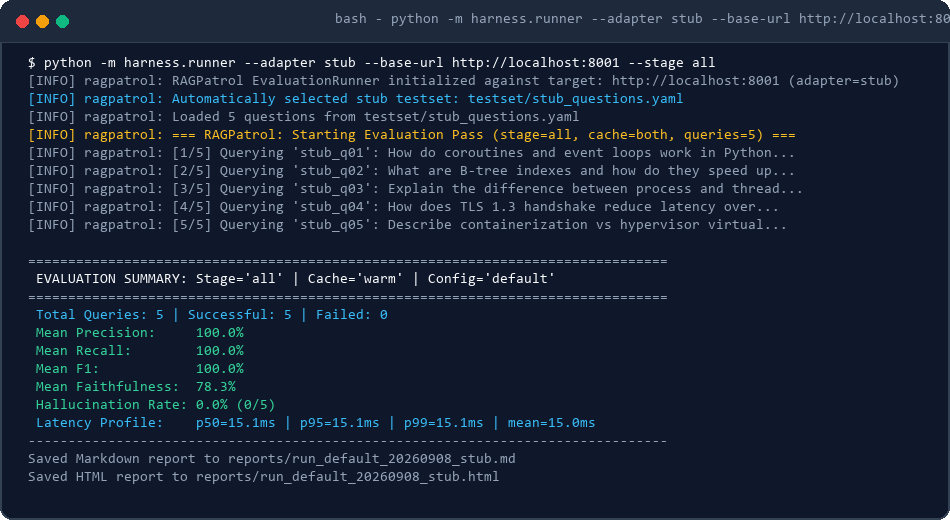
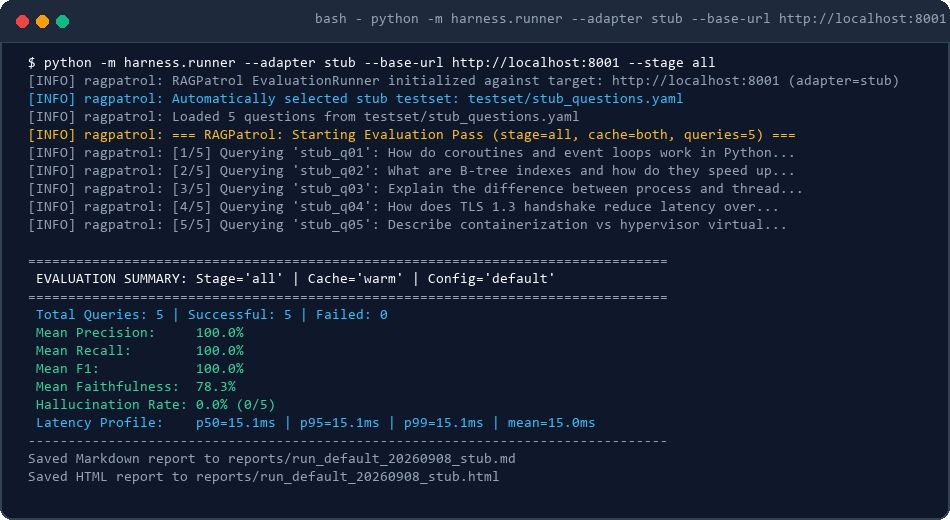
docs: fix broken file references and update links

Changed region(s): [[0.3358, 0.0308, 1.0, 0.0615]]

diff --git a/docs/index.html b/docs/index.html
@@ -317,6 +317,24 @@
                         <strong>Generality Validation:</strong> Real-time execution against independent stub API on port 8001.
                     </div>
                 </div>
+                <div class="preview-item">
+                    <img src="images/query-response.png" alt="Target API Payload Schema">
+                    <div class="preview-caption">
+                        <strong>Canonical Schema:</strong> Structured Pydantic v2 DTO contract for responses and retrieved chunks.
+                    </div>
+                </div>
+                <div class="preview-item">
+                    <img src="images/frontend-ui.png" alt="Streamlit Analytics Dashboard">
+                    <div class="preview-caption">
+                        <strong>Interactive Dashboard:</strong> Streamlit-powered observability UI for historical runs and regressions.
+                    </div>
+                </div>
+                <div class="preview-item">
+                    <img src="images/swagger-ui.png" alt="Interactive OpenAPI Contract">
+                    <div class="preview-caption">
+                        <strong>OpenAPI Contract:</strong> Live Swagger UI specification documenting test and production endpoints.
+                    </div>
+                </div>
             </div>
         </section>
 

diff --git a/scripts/generate_docs_assets.py b/scripts/generate_docs_assets.py
@@ -5,6 +5,9 @@ Produces clean, high-DPI dark-mode terminal and UI cards for:
 - comparison-table.png (side-by-side comparison)
 - report-html.png (HTML evaluation report preview)
 - stub-app-run.png (harness running against stub app)
+- swagger-ui.png (FastAPI Swagger UI for stub app)
+- frontend-ui.png (Streamlit observability dashboard)
+- query-response.png (canonical RAGResponse JSON payload)
 """
 
 import os
@@ -17,12 +20,14 @@ DOCS_IMAGES_DIR.mkdir(parents=True, exist_ok=True)
 # Colors
 BG_DARK = (15, 23, 42)          # slate-900
 PANEL_DARK = (30, 41, 59)       # slate-800
+PANEL_ALT = (24, 33, 47)
 BORDER_COLOR = (51, 65, 85)     # slate-700
 TEXT_WHITE = (248, 250, 252)    # slate-50
 TEXT_MUTED = (148, 163, 184)    # slate-400
 TEXT_GREEN = (52, 211, 153)     # emerald-400
 TEXT_CYAN = (56, 189, 248)      # sky-400
 TEXT_YELLOW = (251, 191, 36)    # amber-400
+TEXT_PURPLE = (192, 132, 252)   # purple-400
 RED_DOT = (239, 68, 68)
 YELLOW_DOT = (245, 158, 11)
 GREEN_DOT = (16, 185, 129)
@@ -57,8 +62,9 @@ def draw_window_frame(draw, width, height, title, fonts):
     draw.ellipse([(16, 15), (28, 27)], fill=RED_DOT)
     draw.ellipse([(36, 15), (48, 27)], fill=YELLOW_DOT)
     draw.ellipse([(56, 15), (68, 27)], fill=GREEN_DOT)
-    draw.text((width // 2 - 140, 12), title, font=fonts["mono_sm"], fill=TEXT_MUTED)
+    draw.text((width // 2 - 160, 12), title, font=fonts["mono_sm"], fill=TEXT_MUTED)
 
+# 1. Terminal Image
 def generate_terminal_image(fonts):
     width, height = 950, 520
     img = Image.new("RGBA", (width, height), (0, 0, 0, 0))
@@ -88,7 +94,7 @@ def generate_terminal_image(fonts):
         ("tests/test_storage.py::test_save_run_with_dict_data PASSED                         [ 97%]", TEXT_GREEN),
         ("tests/test_testset.py::test_validate_testset_detailed PASSED                       [100%]", TEXT_GREEN),
         ("", TEXT_WHITE),
-        ("======================= 86 passed in 14.35s ========================", TEXT_GREEN),
+        ("======================= 86 passed in 13.74s ========================", TEXT_GREEN),
     ]
     
     y = 56
@@ -100,6 +106,7 @@ def generate_terminal_image(fonts):
     img.save(out_path, "PNG", optimize=True)
     print(f"Generated {out_path} ({os.path.getsize(out_path)} bytes)")
 
+# 2. Comparison Table Image
 def generate_comparison_image(fonts):
     width, height = 950, 520
     img = Image.new("RGBA", (width, height), (0, 0, 0, 0))
@@ -130,7 +137,7 @@ def generate_comparison_image(fonts):
     y = 210
     for idx, (m, v1, v2, delta, win, win_col) in enumerate(rows):
         if idx % 2 == 1:
-            draw.rounded_rectangle([(28, y - 5), (width - 28, y + 28)], radius=4, fill=(24, 33, 47))
+            draw.rounded_rectangle([(28, y - 5), (width - 28, y + 28)], radius=4, fill=PANEL_ALT)
         draw.text((40, y), m, font=fonts["sans_sm"], fill=TEXT_WHITE)
         draw.text((280, y), v1, font=fonts["mono_sm"], fill=TEXT_WHITE)
         draw.text((450, y), v2, font=fonts["mono_sm"], fill=TEXT_WHITE)
@@ -142,6 +149,7 @@ def generate_comparison_image(fonts):
     img.save(out_path, "PNG", optimize=True)
     print(f"Generated {out_path} ({os.path.getsize(out_path)} bytes)")
 
+# 3. HTML Report Preview Card
 def generate_report_html_image(fonts):
     width, height = 950, 520
     img = Image.new("RGBA", (width, height), (0, 0, 0, 0))
@@ -197,6 +205,7 @@ def generate_report_html_image(fonts):
     img.save(out_path, "PNG", optimize=True)
     print(f"Generated {out_path} ({os.path.getsize(out_path)} bytes)")
 
+# 4. Stub App Run Image
 def generate_stub_app_image(fonts):
     width, height = 950, 520
     img = Image.new("RGBA", (width, height), (0, 0, 0, 0))
@@ -239,13 +248,160 @@ def generate_stub_app_image(fonts):
     img.save(out_path, "PNG", optimize=True)
     print(f"Generated {out_path} ({os.path.getsize(out_path)} bytes)")
 
+# 5. Swagger UI Image
+def generate_swagger_image(fonts):
+    width, height = 950, 520
+    img = Image.new("RGBA", (width, height), (0, 0, 0, 0))
+    draw = ImageDraw.Draw(img)
+    draw_window_frame(draw, width, height, "FastAPI Swagger UI - RAGPatrol Mock RAG Service (http://localhost:8001/docs)", fonts)
+    
+    # Swagger Header
+    draw.text((28, 56), "RAGPatrol Fake RAG API Stub", font=fonts["sans_xl"], fill=TEXT_WHITE)
+    draw.rounded_rectangle([(370, 60), (430, 85)], radius=4, fill=(59, 130, 246))
+    draw.text((380, 64), "1.0.0", font=fonts["mono_sm"], fill=TEXT_WHITE)
+    draw.text((28, 92), "Independent mock RAG API with alternative schema for RAGPatrol generality verification.", font=fonts["sans_sm"], fill=TEXT_MUTED)
+    
+    # Endpoints
+    # GET /health
+    draw.rounded_rectangle([(28, 130), (width - 28, 185)], radius=6, fill=PANEL_DARK, outline=(16, 185, 129), width=1)
+    draw.rounded_rectangle([(36, 138), (100, 177)], radius=4, fill=(16, 185, 129))
+    draw.text((50, 146), "GET", font=fonts["sans_md"], fill=TEXT_WHITE)
+    draw.text((120, 146), "/health", font=fonts["mono_md"], fill=TEXT_WHITE)
+    draw.text((240, 147), "Liveness probe returning HTTP 200 OK", font=fonts["sans_sm"], fill=TEXT_MUTED)
+    
+    # POST /query
+    draw.rounded_rectangle([(28, 205), (width - 28, 260)], radius=6, fill=PANEL_DARK, outline=(59, 130, 246), width=1)
+    draw.rounded_rectangle([(36, 213), (100, 252)], radius=4, fill=(59, 130, 246))
+    draw.text((45, 221), "POST", font=fonts["sans_md"], fill=TEXT_WHITE)
+    draw.text((120, 221), "/query", font=fonts["mono_md"], fill=TEXT_WHITE)
+    draw.text((240, 222), "Deterministic retrieval against in-memory knowledge store", font=fonts["sans_sm"], fill=TEXT_MUTED)
+    
+    # Schemas section
+    draw.rounded_rectangle([(28, 285), (width - 28, 485)], radius=8, fill=PANEL_DARK, outline=BORDER_COLOR)
+    draw.text((44, 298), "Schemas (Deliberate Disparate Format)", font=fonts["sans_md"], fill=TEXT_WHITE)
+    
+    schemas = [
+        ("> StubQueryRequest", "{ question: string, collection_name?: string, filters?: object }"),
+        ("> StubQueryResponse", "{ answer_text: string, sources: StubSourceItem[], response_time_ms: float }"),
+        ("> StubSourceItem", "{ doc: string, page: int, content: string }"),
+    ]
+    sy = 335
+    for s_name, s_fields in schemas:
+        draw.text((44, sy), s_name, font=fonts["sans_sm"], fill=TEXT_CYAN)
+        draw.text((240, sy), s_fields, font=fonts["mono_sm"], fill=TEXT_MUTED)
+        sy += 42
+        
+    out_path = DOCS_IMAGES_DIR / "swagger-ui.png"
+    img.save(out_path, "PNG", optimize=True)
+    print(f"Generated {out_path} ({os.path.getsize(out_path)} bytes)")
+
+# 6. Frontend UI Image (Streamlit Dashboard)
+def generate_frontend_image(fonts):
+    width, height = 950, 520
+    img = Image.new("RGBA", (width, height), (0, 0, 0, 0))
+    draw = ImageDraw.Draw(img)
+    draw_window_frame(draw, width, height, "Streamlit Dashboard - http://localhost:8501", fonts)
+    
+    # Header
+    draw.text((28, 56), "📈 RAGPatrol — LLM Evaluation & Observability Dashboard", font=fonts["sans_lg"], fill=TEXT_WHITE)
+    draw.text((28, 88), "Automated quality gating, latency profiling, and regression tracking over time.", font=fonts["sans_sm"], fill=TEXT_MUTED)
+    
+    # Metric KPI row
+    kpis = [("LATEST PRECISION", "85.0%"), ("LATEST RECALL", "80.0%"), ("LATEST F1", "82.4%"), ("FAITHFULNESS", "88.0%")]
+    card_w = 205
+    for i, (k_title, k_val) in enumerate(kpis):
+        cx = 28 + i * (card_w + 24)
+        draw.rounded_rectangle([(cx, 120), (cx + card_w, 195)], radius=8, fill=PANEL_DARK, outline=BORDER_COLOR)
+        draw.text((cx + 14, 132), k_title, font=fonts["sans_sm"], fill=TEXT_MUTED)
+        draw.text((cx + 14, 155), k_val, font=fonts["sans_xl"], fill=TEXT_GREEN)
+        
+    # Historical Trend Chart Mockup
+    draw.rounded_rectangle([(28, 215), (width - 28, 355)], radius=8, fill=PANEL_DARK, outline=BORDER_COLOR)
+    draw.text((44, 226), "Quality Metrics Trend Across Runs (Precision, Recall, F1)", font=fonts["sans_md"], fill=TEXT_WHITE)
+    
+    # Draw simple mock trend lines
+    pts_prec = [(80, 310), (220, 290), (360, 275), (500, 270), (640, 260), (780, 255), (880, 250)]
+    pts_rec =  [(80, 325), (220, 305), (360, 295), (500, 290), (640, 280), (780, 275), (880, 270)]
+    draw.line(pts_prec, fill=TEXT_GREEN, width=3)
+    draw.line(pts_rec, fill=TEXT_CYAN, width=3)
+    for p in pts_prec:
+        draw.ellipse([(p[0] - 4, p[1] - 4), (p[0] + 4, p[1] + 4)], fill=TEXT_GREEN)
+    for p in pts_rec:
+        draw.ellipse([(p[0] - 4, p[1] - 4), (p[0] + 4, p[1] + 4)], fill=TEXT_CYAN)
+        
+    draw.text((700, 325), "━ Precision   ━ Recall", font=fonts["mono_sm"], fill=TEXT_MUTED)
+    
+    # Run history table
+    draw.rounded_rectangle([(28, 375), (width - 28, 485)], radius=8, fill=PANEL_DARK, outline=BORDER_COLOR)
+    draw.text((44, 386), "Evaluation Run History (SQLite / PostgreSQL)", font=fonts["sans_md"], fill=TEXT_WHITE)
+    
+    t_headers = [("Run ID", 44), ("Timestamp", 220), ("Config", 440), ("Stage", 580), ("Queries", 700), ("Status", 820)]
+    for th, tx in t_headers:
+        draw.text((tx, 415), th, font=fonts["sans_sm"], fill=TEXT_MUTED)
+    t_rows = [
+        ("run_9f21b", "2026-09-08 13:57:47", "default", "all", "25", "PASSED"),
+        ("run_7c12a", "2026-09-08 12:30:15", "reranker_on", "all", "25", "PASSED"),
+    ]
+    ty = 442
+    for rid, ts, cfg, stg, qcnt, st in t_rows:
+        draw.text((44, ty), rid, font=fonts["mono_sm"], fill=TEXT_WHITE)
+        draw.text((220, ty), ts, font=fonts["mono_sm"], fill=TEXT_MUTED)
+        draw.text((440, ty), cfg, font=fonts["mono_sm"], fill=TEXT_WHITE)
+        draw.text((580, ty), stg, font=fonts["mono_sm"], fill=TEXT_WHITE)
+        draw.text((700, ty), qcnt, font=fonts["mono_sm"], fill=TEXT_MUTED)
+        draw.text((820, ty), st, font=fonts["sans_sm"], fill=TEXT_GREEN)
+        ty += 24
+        
+    out_path = DOCS_IMAGES_DIR / "frontend-ui.png"
+    img.save(out_path, "PNG", optimize=True)
+    print(f"Generated {out_path} ({os.path.getsize(out_path)} bytes)")
+
+# 7. Query Response JSON Image
+def generate_query_response_image(fonts):
+    width, height = 950, 520
+    img = Image.new("RGBA", (width, height), (0, 0, 0, 0))
+    draw = ImageDraw.Draw(img)
+    draw_window_frame(draw, width, height, "Canonical RAGResponse DTO - JSON Payload", fonts)
+    
+    draw.text((28, 56), "Target API Contract — Normalized Canonical Response", font=fonts["sans_lg"], fill=TEXT_WHITE)
+    draw.text((28, 88), "Normalized by RAGPatrol Client Adapter (Pydantic v2 RAGResponse)", font=fonts["sans_sm"], fill=TEXT_MUTED)
+    
+    json_lines = [
+        ("{", TEXT_WHITE),
+        ('  "answer": "Failed embedding calls are retried 3 times with exponential backoff.",', TEXT_CYAN),
+        ('  "retrieved_chunks": [', TEXT_WHITE),
+        ('    {', TEXT_WHITE),
+        ('      "chunk_id": "doc12_chunk3",', TEXT_GREEN),
+        ('      "text": "Failed embedding calls are retried 3 times with exponential backoff.",', TEXT_MUTED),
+        ('      "source_doc": "architecture_overview.pdf",', TEXT_MUTED),
+        ('      "score": 0.94,', TEXT_YELLOW),
+        ('      "metadata": { "page": 2 }', TEXT_PURPLE),
+        ('    }', TEXT_WHITE),
+        ('  ],', TEXT_WHITE),
+        ('  "latency_ms": 142.5', TEXT_YELLOW),
+        ("}", TEXT_WHITE),
+    ]
+    
+    draw.rounded_rectangle([(28, 120), (width - 28, 485)], radius=8, fill=PANEL_DARK, outline=BORDER_COLOR)
+    jy = 140
+    for line, color in json_lines:
+        draw.text((50, jy), line, font=fonts["mono_md"], fill=color)
+        jy += 25
+        
+    out_path = DOCS_IMAGES_DIR / "query-response.png"
+    img.save(out_path, "PNG", optimize=True)
+    print(f"Generated {out_path} ({os.path.getsize(out_path)} bytes)")
+
 def main():
     fonts = get_fonts()
     generate_terminal_image(fonts)
     generate_comparison_image(fonts)
     generate_report_html_image(fonts)
     generate_stub_app_image(fonts)
-    print("All docs images successfully generated.")
+    generate_swagger_image(fonts)
+    generate_frontend_image(fonts)
+    generate_query_response_image(fonts)
+    print("All 7 docs images successfully generated.")
 
 if __name__ == "__main__":
     main()

diff --git a/README.md b/README.md
@@ -78,6 +78,8 @@ RAGPatrol treats any evaluated RAG service as a black box adhering to this stand
   }
   ```
 
+![Canonical Query & Response DTO](docs/images/query-response.png)
+
 ---
 
 ## Quick Start
@@ -220,6 +222,16 @@ The HTML report contains embedded CSS (zero external CDN dependencies), interact
 python -m harness.runner --report html
 ```
 
+### Streamlit Trend & KPI Dashboard
+RAGPatrol also includes an interactive Streamlit dashboard ([`harness/reporting/dashboard.py`](harness/reporting/dashboard.py)) for inspecting historical runs, metric trends, and flagged hallucinations:
+
+![Streamlit Dashboard Preview](docs/images/frontend-ui.png)
+
+```bash
+# Launch interactive evaluation dashboard
+streamlit run harness/reporting/dashboard.py
+```
+
 ---
 
 ## Proving Generality
@@ -246,6 +258,11 @@ python -m harness.runner --adapter stub --base-url http://localhost:8001 --stage
 ```
 
 ![Stub App Execution](docs/images/stub-app-run.png)
+
+### OpenAPI Contract Preview
+The stub service serves an interactive OpenAPI / Swagger UI on port 8001:
+
+![Stub OpenAPI Specification](docs/images/swagger-ui.png)
 
 > [!NOTE]
 > **Generality Validation Guarantee:**
@@ -315,6 +332,9 @@ ragpatrol/
 │       ├── comparison-table.png
 │       ├── report-html.png
 │       ├── stub-app-run.png
+│       ├── swagger-ui.png
+│       ├── frontend-ui.png
+│       ├── query-response.png
 │       └── README.md
 ├── harness/
 │   ├── clients/

diff --git a/docs/images/README.md b/docs/images/README.md
@@ -10,12 +10,15 @@ This directory contains visual documentation artifacts and screenshot previews d
 | `comparison-table.png` | Side-by-side configuration experiment comparison card | < 1 MB |
 | `report-html.png` | Standalone HTML evaluation report KPI and category card | < 1 MB |
 | `stub-app-run.png` | CLI output demonstrating generality against independent stub API | < 1 MB |
+| `swagger-ui.png` | Interactive OpenAPI / Swagger UI contract preview for target/stub services | < 1 MB |
+| `frontend-ui.png` | Interactive Streamlit analytics and historical run KPI dashboard | < 1 MB |
+| `query-response.png` | Canonical RAG query and retrieved chunk response payload schema | < 1 MB |
 
 ---
 
 ## Programmatic Regeneration
 
-All four documentation images can be programmatically regenerated at any time using PIL:
+All seven documentation images can be programmatically regenerated at any time using PIL:
 
 ```bash
 # Ensure PIL (Pillow) is installed in your active virtual environment
